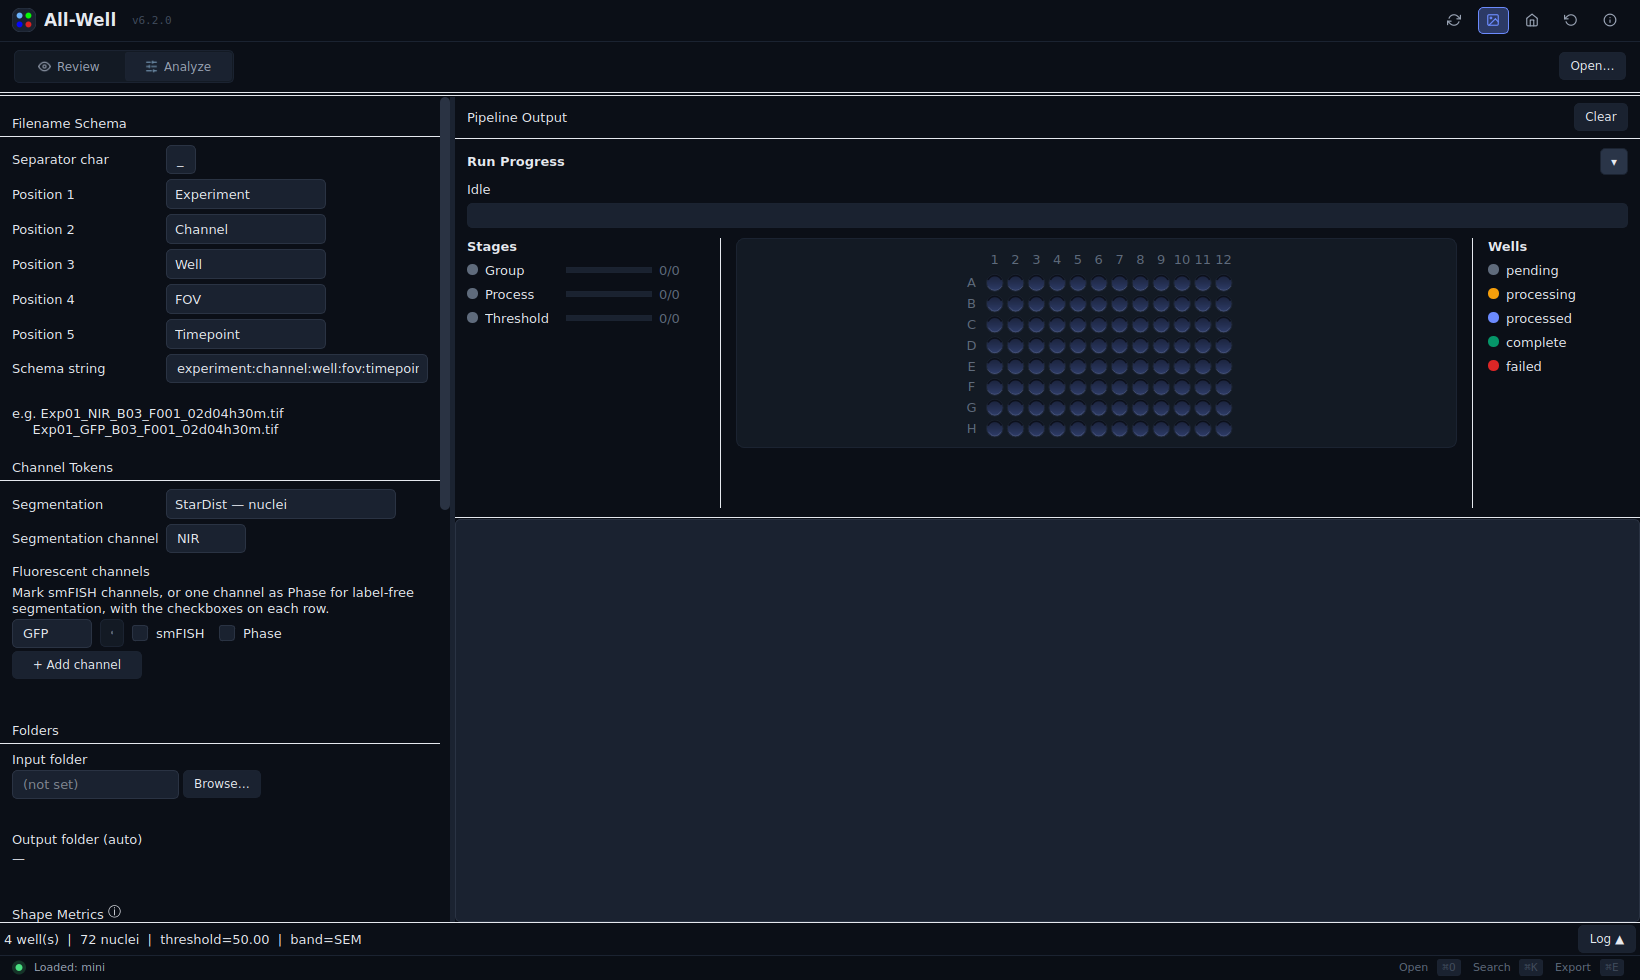
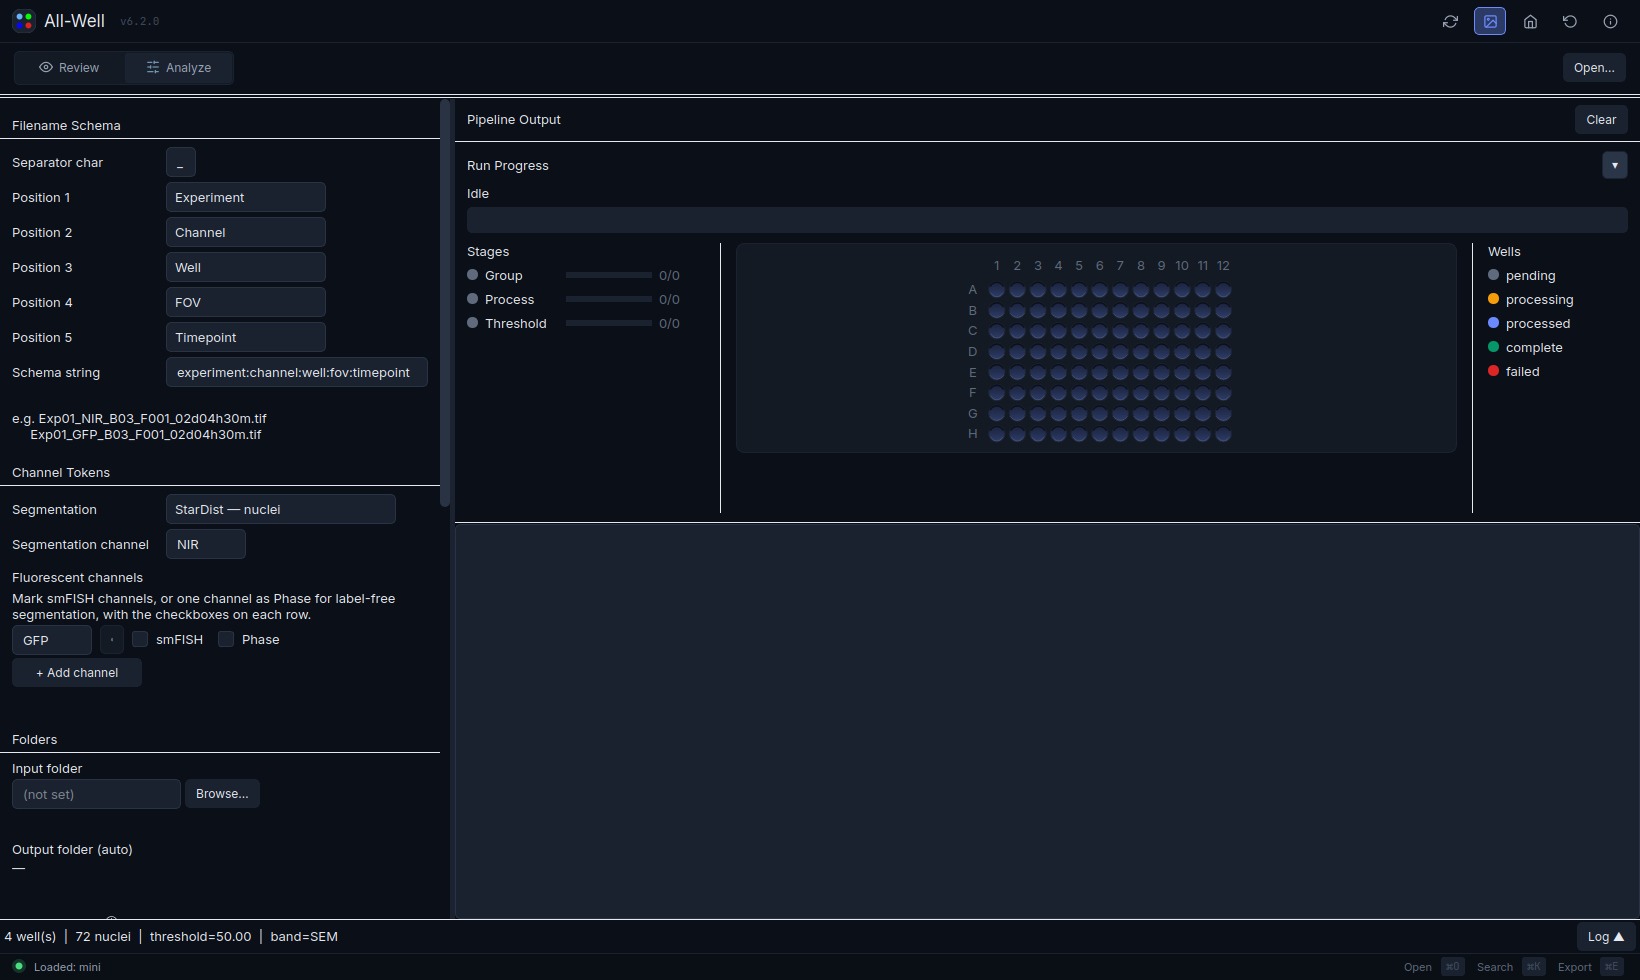
Visual audit: corrected zoomed re-analysis pass (Inter render + report)
Re-render every view off updated main (now in the bundled Inter font) and
re-examine each centre pane at a 1.5x crop — the original audit assessed some
dense tabs from the down-scaled thumbnail.

REPORT.md gains a 'Re-analysis pass' section: what's been fixed across the
follow-up PRs (#406/#407/#409/#410/#411/#412/#413/#414), the remaining concrete
issues with severity (channel casing, batch OUTPUT-SETTINGS field alignment,
Analyze idle pane, Ratios empty-state, help-drawer dim), and the parked macOS
variable-font follow-up.

Screenshots regenerated in Inter so the audit images match what ships.

diff --git a/_Docs/visual_audit/REPORT.md b/_Docs/visual_audit/REPORT.md
@@ -18,6 +18,47 @@ Cleanliness · Usability · Professionalism**. Findings are tagged
 
 ---
 
+## Re-analysis pass — 2026-06-12 (zoomed, post-fix)
+
+The original audit graded every tab but assessed several of the denser ones from the
+down-scaled full-window thumbnail rather than a zoomed centre-pane crop, so a few findings
+were shallow (Batch Export especially). This pass re-rendered every view **off the updated
+`main`** — now in the bundled **Inter** UI font — and re-examined each centre pane at a
+1.5× crop. Screenshots in [`screenshots/`](./screenshots) are this state.
+
+### Fixed since the original audit (shipped across follow-up PRs)
+- **Font** — app now ships Inter (UI) + JetBrains Mono (numeric); plots match the chrome
+  (no more "Helvetica not found"). *(#410; build-bundle + `monospace`-warning fix in #413.)*
+- **Heat Map** dark background; **Statistics** "Run test" alignment; **smFISH** duplicate
+  empty-state message; **Image Table** declutter (aligned per-row table, fixed truncation,
+  "Apply to whole row" caption); **empty-state control bars** greyed until data loads;
+  **Analyze** schema field; **Groups** empty-state hint; **Cell Gating** CDF auto-range.
+  *(#406.)*
+- **`flush_dirty_scopes`** tab-switch crash and **scatter `math` NameError** on load. *(#407.)*
+- **Image Table** `≥ Thr` binary honours per-channel thresholds; per-row **Raw/Corrected**
+  source selector. *(#409 / #411.)*
+- **Batch Export** chart-type/Error-Band header reorder + relabel *(#412)*; export-logic
+  audit confirmed the pipeline correct and fixed **filename collisions silently
+  overwriting outputs** *(#414)*.
+
+### Remaining concrete issues (this zoomed pass)
+| Sev | Tab | Issue |
+|-----|-----|-------|
+| H | Scatter / Statistics / Batch Export | **Channel casing** still `gfp` vs `GFP` — deferred refactor (display↔token mapping across read/persistence sites). |
+| M | Batch Export → OUTPUT SETTINGS | Field labels (Folder/Format/Style Preset/Channel/Fold-change) are different widths, so the value controls don't share a column — needs a label-width/grid pass in the shared `base_panel`. |
+| L | Analyze | When idle, the lower half of the right (Pipeline Output) pane is empty — fills during a run; acceptable. |
+| L | Ratios | Empty metrics table shows headers but no empty-state hint (QTableWidget overlay — low value). |
+| L | Help drawer | Underlay isn't dimmed, so the drawer edge blends into the content. |
+| L | Review CSV / Ratios | Column headers right-/spread-aligned for text columns. |
+
+### Known follow-up (parked at user's request)
+- **macOS: bundled font not applied from source.** Reasoning from the report (no
+  `app_fonts` traceback; only the `monospace` warning) points to Qt not honouring the
+  **variable** TTFs on macOS. Planned fix: ship **static weight instances** (generated from
+  the variable files via `fontTools` instancer) so registration is reliable cross-platform.
+
+---
+
 ## Score summary
 
 | View | Clut | Algn | Act | Cons | Clean | Use | Prof | Worst issues |
